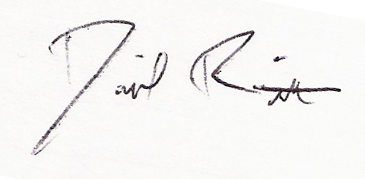
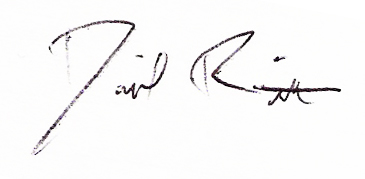
Princeton cover letter + increased contrast on signature image.

diff --git a/coverletters.js b/coverletters.js
@@ -51,18 +51,27 @@ function newcommand(name, stringvalue) {
 // -------------------------------------------------------------------
 
 [
+	// {
+	// 	name: 'test1',
+	// 	university: 'University',
+	// 	department: 'Department',
+	// 	recipient: 'Faculty Search Committee',
+	// 	address: ['123 Pleasant Lane', 'City, State 12345']
+	// },
+	// {
+	// 	name: 'test2',
+	// 	university: 'Institute',
+	// 	department: 'School',
+	// 	recipient: 'CS Faculty Search Committee',
+	// 	address: ['456 Exquisite Drive', 'City, State 67890']
+	// }
 	{
-		name: 'test1',
-		university: 'University',
-		department: 'Department',
+		name: 'princeton',
+		university: 'Princeton University',
+		department: 'Department of Computer Science',
 		recipient: 'Faculty Search Committee',
-		address: ['123 Pleasant Lane', 'City, State 12345']
-	},
-	{
-		name: 'test2',
-		university: 'Institute',
-		department: 'School',
-		recipient: 'CS Faculty Search Committee',
-		address: ['456 Exquisite Drive', 'City, State 67890']
+		address: ['35 Olden Street', 'Princeton, NJ 08540-5233']
 	}
 ].forEach(compile);
+
+
